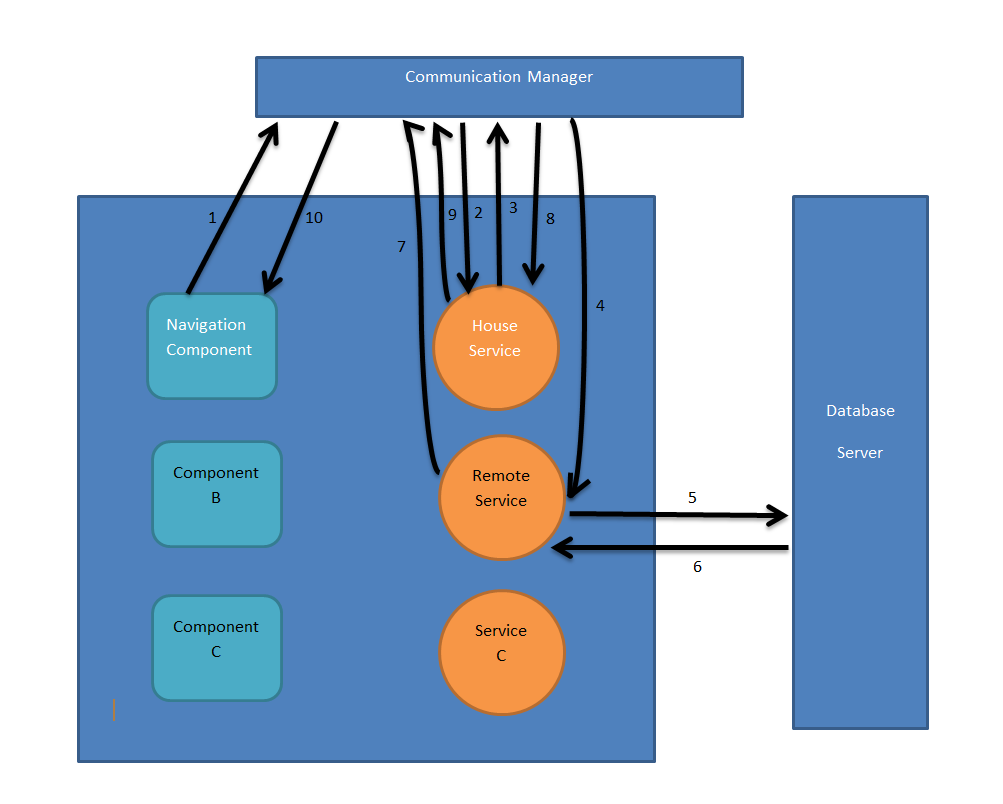
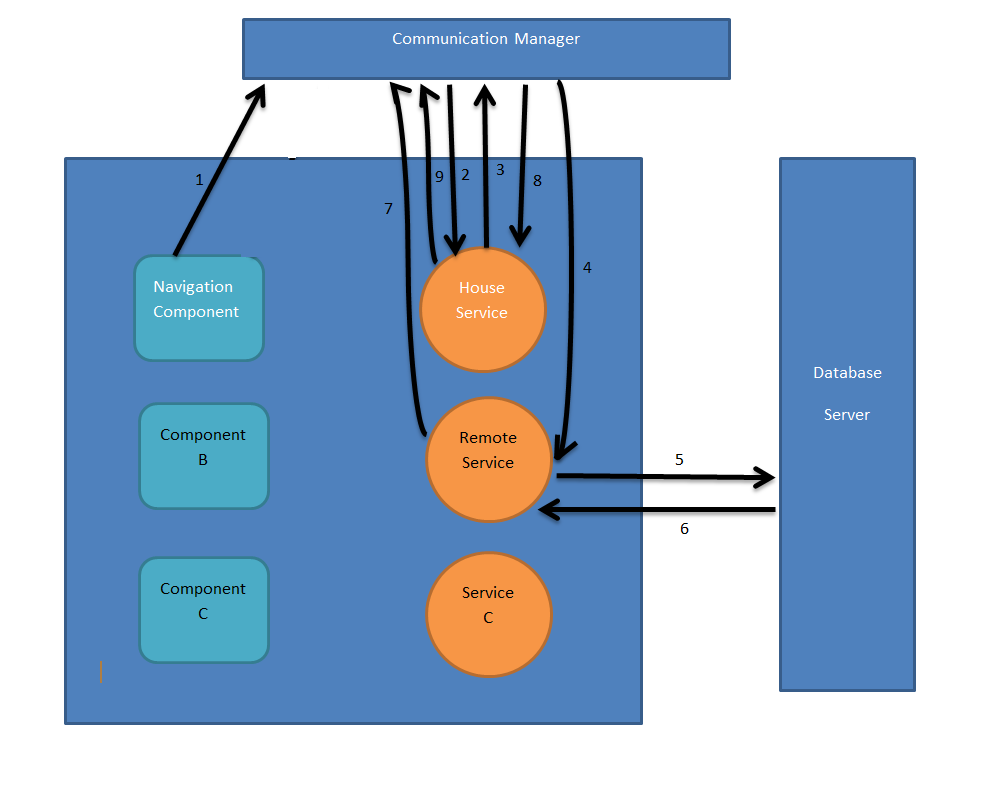
change workflow3

Changed region(s): [[0.0618, 0.0, 0.9272, 0.9639], [0.8345, 0.5597, 0.8654, 0.5908]]

diff --git a/README.md b/README.md
@@ -26,7 +26,7 @@ I put together a small demo to explain how it was done in my Oracle project. Thi
 The demo application appear as a "container". This container contains 5 isolated objects: 3 components (A, B, and C) for UI view and 2 services (X and Y) for remote data access. The 3 UI view components are: navigation , houseInTable and houseInMap. 
 
 Here is all the communication image:
-![Alt text](./workflow2.png?raw=true "Independent Componentize Workflow Picture")
+![Alt text](./workflow3.png?raw=true "Independent Componentize Workflow Picture")
 
 The first component, navigation (A) is used to accept user's input to request data in order to fill houseInTable (B) by publish topic "/HouseService/getAll". A has no idea about who is going to use the data it request. Its only job is take user input and publish "/HouseService/getAll".
 
